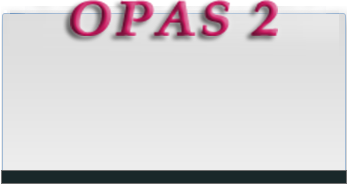
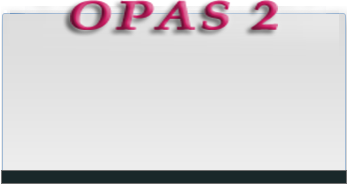
界面优化
点击左栏菜单未实现项出错提示
登录界面图片微调

Changed region(s): [[0.1729, 0.0, 0.6628, 0.2446], [0.6916, 0.0, 0.8069, 0.2446]]

diff --git a/Scripts/opas-vue-public-mixin.js b/Scripts/opas-vue-public-mixin.js
@@ -8,6 +8,14 @@
         message: '本功能尚未实现'
       });
     },
+    handleLeftNavMenuItemSelected(key, keyPath) {
+      if (key == "MY-ACCOUNT" ||
+        key == "MY-ALERT" ||
+        key == "MY-DELEGATE" ||
+        key == "REPORT-TODO") {
+        this.alertErrorNotImplemented();
+      }
+    },
     drawFlowChart(flowTemplateDef, currentActivityNodeGuid) {
       console.log(flowTemplateDef);
       if (flowTemplateDef) {
@@ -22,5 +30,6 @@
         }
       }
     },
+
   }
 };

diff --git a/Controllers/HomeController.cs b/Controllers/HomeController.cs
@@ -12,7 +12,7 @@ namespace OPAS2.Controllers
   {
     public HomeController(): base()
     {
-      ViewBag.currentMenuIndex = "SYS-USER";
+      ViewBag.currentMenuIndex = "";
     }
 
     [UserLogon]
